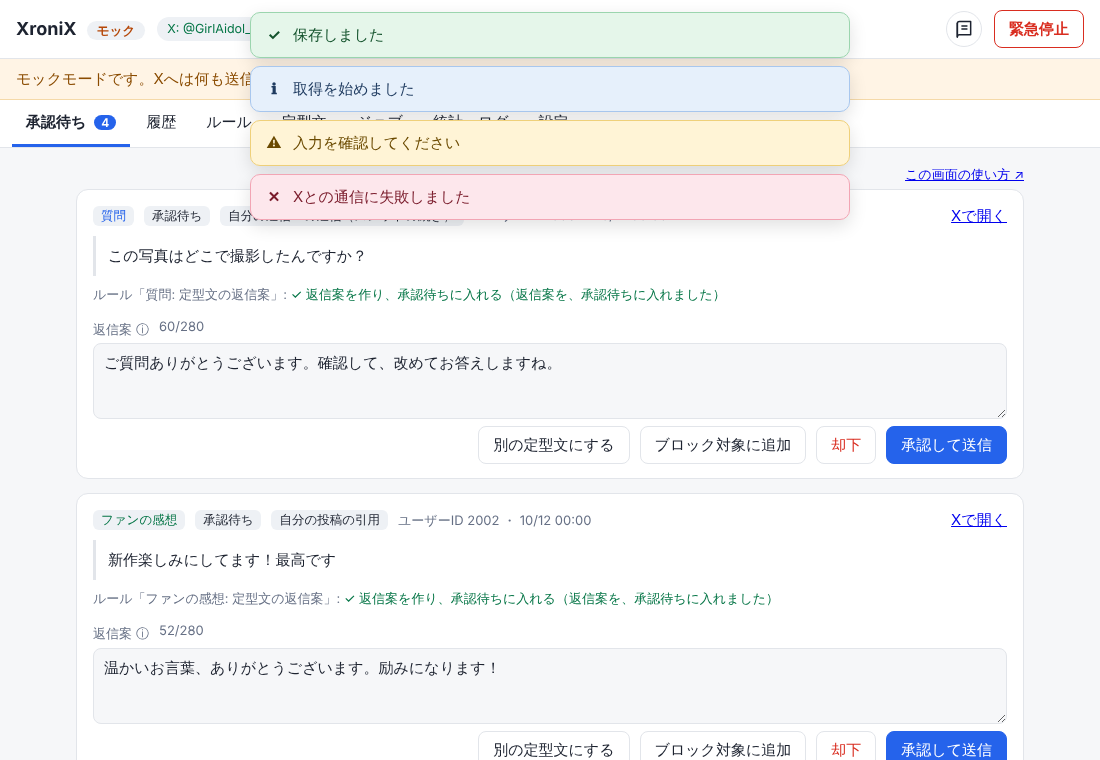
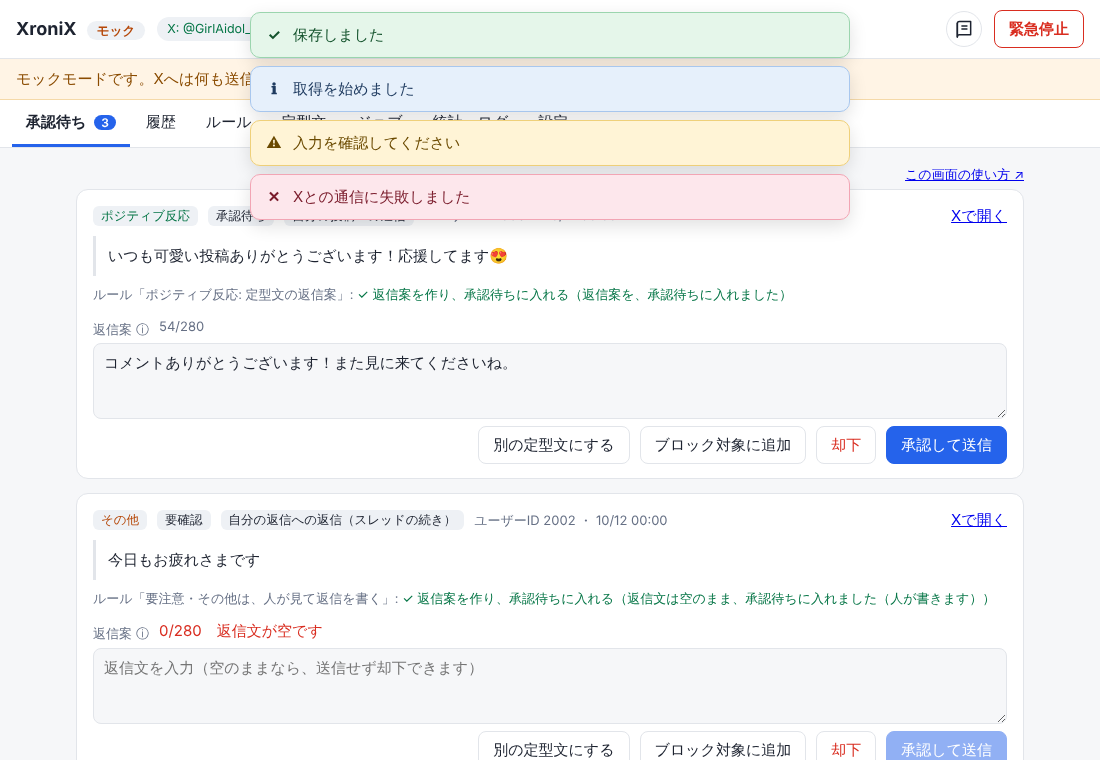
分類「ファンの感想」を「ポジティブ反応」に改名 (#8)
- 画面、ルールの既定名、AIのプロンプト、マニュアル、docsの表記を変更（内部キー fan は据え置き）
- マニュアルに、フォロワーとは無関係であることと、用語の定義を追記し、画面写真を撮り直し

Claude-Session: https://claude.ai/code/session_01EWXvrpRutDAh6miq8xhc1r

diff --git a/web/manual.html b/web/manual.html
@@ -191,7 +191,7 @@ svg text{font-family:system-ui,"Hiragino Sans","Noto Sans JP",sans-serif;fill:#1
 <figure class="tall"><img src="manual-img/history.png" alt="履歴画面" loading="lazy"><figcaption>図9 履歴画面</figcaption></figure>
 
 <h2 id="rules">ルール</h2>
-<p>反応の種類ごとに、何をするかを決める画面です。たとえば「ファンの感想にはいいねを付ける」「いいねが100件を超えたらAIの追加コメント案を作る」などを設定できます。</p>
+<p>反応の種類ごとに、何をするかを決める画面です。たとえば「ポジティブ反応にはいいねを付ける」「いいねが100件を超えたらAIの追加コメント案を作る」などを設定できます。</p>
 <figure class="tall"><img src="manual-img/rules.png" alt="ルール画面" loading="lazy"><figcaption>図10 ルール画面</figcaption></figure>
 <h3>ルールの探し方</h3>
 <figure>
@@ -209,7 +209,7 @@ svg text{font-family:system-ui,"Hiragino Sans","Noto Sans JP",sans-serif;fill:#1
 <tr><th>項目</th><th>説明</th></tr>
 <tr><td>対象</td><td>「反応」（返信・引用・メンション）か、「自投稿の数値」（いいね数など）。</td></tr>
 <tr><td>反応の種類</td><td>自分の投稿への返信、自分の返信への返信（スレッドの続き）、自分の投稿の引用、その他のメンション。</td></tr>
-<tr><td>分類</td><td>ファンの感想、質問、スパム、要注意、その他。選ばなければ、すべてが対象です。</td></tr>
+<tr><td>分類</td><td>ポジティブ反応、質問、スパム、要注意、その他。選ばなければ、すべてが対象です。</td></tr>
 <tr><td>アクション</td><td>上から順に実行されます。複数を並べられます。</td></tr>
 </table>
 <h3>アクションの種類</h3>
@@ -231,8 +231,8 @@ svg text{font-family:system-ui,"Hiragino Sans","Noto Sans JP",sans-serif;fill:#1
 <h3>設定例</h3>
 <table>
 <tr><th>やりたいこと</th><th>設定</th></tr>
-<tr><td>感想には、まず定型文で返す</td><td>分類「ファンの感想」、アクション「返信案を作る（定型文）」</td></tr>
-<tr><td>感想にいいねだけ付ける</td><td>分類「ファンの感想」、アクション「いいねを付ける」</td></tr>
+<tr><td>ポジティブ反応には、まず定型文で返す</td><td>分類「ポジティブ反応」、アクション「返信案を作る（定型文）」</td></tr>
+<tr><td>ポジティブ反応にいいねだけ付ける</td><td>分類「ポジティブ反応」、アクション「いいねを付ける」</td></tr>
 <tr><td>スパムは放置する</td><td>分類「スパム」、アクション「何もしない」</td></tr>
 <tr><td>人気の投稿にお礼を出す</td><td>対象「自投稿の数値」、いいね数が基準以上、アクション「AIで返信案」</td></tr>
 </table>
@@ -316,7 +316,8 @@ svg text{font-family:system-ui,"Hiragino Sans","Noto Sans JP",sans-serif;fill:#1
 <tr><td>メンション</td><td>@GirlAidol を含む投稿です。</td></tr>
 <tr><td>引用</td><td>自分の投稿を引用した投稿です。</td></tr>
 <tr><td>スレッド</td><td>返信が連なった一連の会話です。</td></tr>
-<tr><td>分類</td><td>ファンの感想、質問、スパム、要注意、その他。</td></tr>
+<tr><td>分類</td><td>ポジティブ反応、質問、スパム、要注意、その他。本文から自動で付くラベルで、相手がフォロワーかどうかは見ていません。</td></tr>
+<tr><td>ポジティブ反応</td><td>好意的・応援・お礼などの文面の反応です（例: 応援、癒し、尊い、可愛い、😍）。フォロワーかどうかとは無関係です。</td></tr>
 <tr><td>ルール</td><td>反応の種類と分類に応じた、処理の決まりです。</td></tr>
 <tr><td>アクション</td><td>ルールが行う1つ1つの処理です。</td></tr>
 <tr><td>プロンプト</td><td>AIへの指示文です。</td></tr>

diff --git a/web/app.js b/web/app.js
@@ -365,7 +365,7 @@ async function renderSettings() {
 // ---------- ルール（反応ごとのアクション） ----------
 const SOURCE_LABEL = { template: "定型文から選ぶ", ai: "AIで作る（指示を書く）", manual: "空欄にする（自分で書く）" };
 const CONTEXT_LABEL = { single: "この投稿だけを渡す", thread: "スレッドの流れも渡す（遡った件数ぶん、読み取り料金がかかる）" };
-const TPL_LABEL = { auto: "分類に合わせる（ファン／質問）", fan: "ファンの感想", question: "質問" };
+const TPL_LABEL = { auto: "分類に合わせる（ポジティブ反応／質問）", fan: "ポジティブ反応", question: "質問" };
 const ACTION_TIP = {
   ignore: "何もせず、履歴に記録だけ残します。スパムなどに使います。",
   notify: "Telegramに、反応の種類だけを通知します（本文は送りません）。通知の設定が必要です。",
@@ -396,7 +396,7 @@ function ruleCard(rule, meta, reload) {
     if (a.type === "queue_reply" || a.type === "send_reply") {
       const sources = meta.sources[a.type];
       row.append(h("div", { class: "row" }, h("div", { class: "grow" }, lbl("返信文の作り方"), sel(sources.map((x) => [x, SOURCE_LABEL[x]]), a.source, (v) => { a.source = v; draw(); }))));
-      if (a.source === "template") row.append(lbl("使う定型文の分類", "「分類に合わせる」は、ファン→ファンの感想、質問→質問、それ以外→ファンの感想の定型文を使います。"), sel(Object.entries(TPL_LABEL), a.template_category, (v) => (a.template_category = v)));
+      if (a.source === "template") row.append(lbl("使う定型文の分類", "「分類に合わせる」は、ポジティブ反応→ポジティブ反応、質問→質問、それ以外→ポジティブ反応の定型文を使います。"), sel(Object.entries(TPL_LABEL), a.template_category, (v) => (a.template_category = v)));
       if (a.source === "ai") {
         const ta = h("textarea", { oninput: (e) => (a.prompt = e.target.value) }); ta.value = a.prompt;
         row.append(lbl("AIへの指示（プロンプト）", "返信文を作るときの、役割や口調の指示です。出力の決まり（短く、リンクなし、日本語）は、自動で付きます。"), ta,

diff --git a/src/xronix/rules.py b/src/xronix/rules.py
@@ -104,12 +104,12 @@ def _seed() -> list[dict]:
         {"name": "スパムは記録のみ", "enabled": True, "events": reaction, "categories": [SPAM], "actions": [{"type": "ignore"}]},
         {"name": "要注意・その他は、人が見て返信を書く", "enabled": True, "events": reaction, "categories": [CAUTION, OTHER],
          "actions": [{"type": "queue_reply", "source": "manual"}]},
-        {"name": "ファンの感想: 定型文の返信案", "enabled": True, "events": reaction, "categories": [FAN],
+        {"name": "ポジティブ反応: 定型文の返信案", "enabled": True, "events": reaction, "categories": [FAN],
          "actions": [{"type": "queue_reply", "source": "template", "template_category": "auto"}]},
         {"name": "質問: 定型文の返信案", "enabled": True, "events": reaction, "categories": [QUESTION],
          "actions": [{"type": "queue_reply", "source": "template", "template_category": "auto"}]},
         # 以下は、使い方の見本（無効）
-        {"name": "【見本】ファンの感想にいいねを付ける", "enabled": False, "events": ["reply_to_post"], "categories": [FAN],
+        {"name": "【見本】ポジティブ反応にいいねを付ける", "enabled": False, "events": ["reply_to_post"], "categories": [FAN],
          "actions": [{"type": "like"}]},
         {"name": "【見本】いいねが100件を超えたら、AIの追加コメントを承認待ちに", "enabled": False, "events": ["metric_likes"], "threshold": 100,
          "actions": [{"type": "queue_reply", "source": "ai", "prompt": "あなたの投稿に、たくさんのいいねが付きました。お礼を、短く、自然な日本語で書いてください。",

diff --git a/tests/test_rules.py b/tests/test_rules.py
@@ -65,7 +65,7 @@ def test_valid_rules_are_normalized():
 def test_first_match_wins_and_filters(app):
     for r in app.rules.list():
         app.rules.delete(r["id"])
-    a = app.rules.create(rule(name="A: ファンの返信", events=["reply_to_post"], categories=["fan"], actions=[{"type": "like"}]))
+    a = app.rules.create(rule(name="A: ポジティブ反応の返信", events=["reply_to_post"], categories=["fan"], actions=[{"type": "like"}]))
     b = app.rules.create(rule(name="B: 返信すべて", events=["reply_to_post", "reply_to_reply"], actions=[{"type": "ignore"}]))
     off = app.rules.create(rule(name="C: 無効", enabled=False, events=["mention"], actions=[{"type": "ignore"}]))
     assert app.rules.match("reply_to_post", "fan")["id"] == a["id"]            # 上から見て、最初に合致したもの
@@ -92,7 +92,7 @@ def test_rules_api_crud_move_and_simulate(app):
     call(api, "POST", f"/api/rules/{ids[0]}/move", {"direction": "up"})         # 端は何も起きない
     assert [r["id"] for r in app.rules.list()] == ids
     sim = call(api, "POST", "/api/rules/simulate", {"event": "reply_to_post", "category": "fan"})[1]
-    assert sim["rule"]["name"].startswith("ファンの感想") and sim["rule"]["actions"] == ["返信案を作り、承認待ちに入れる"]
+    assert sim["rule"]["name"].startswith("ポジティブ反応") and sim["rule"]["actions"] == ["返信案を作り、承認待ちに入れる"]
     assert call(api, "POST", "/api/rules/simulate", {"event": "metric_likes"})[0] == 400
     assert call(api, "DELETE", f"/api/rules/{created['id']}")[0] == 200
     assert len(app.rules.list()) == 6

diff --git a/tests/test_api.py b/tests/test_api.py
@@ -61,7 +61,7 @@ def test_queue_reply_reject_redraft_via_api(app):
     app.x.add_mentions(["可愛い！", "好き！"])
     app.jobs.run()
     items = call(api, "GET", "/api/mentions", query={"view": "queue"})[1]["items"]
-    assert len(items) == 2 and items[0]["label"] == "ファンの感想"
+    assert len(items) == 2 and items[0]["label"] == "ポジティブ反応"
     a, b = items[0]["id"], items[1]["id"]
     new = call(api, "POST", f"/api/mentions/{a}/redraft")[1]
     assert new["draft_text"] != items[0]["draft_text"]
@@ -224,7 +224,7 @@ def test_ai_connection_test_endpoint(app, bedrock):
     assert st == 502 and "AccessDeniedException" in body["error"]       # 原因が画面に出る
     bedrock.push_text('{"category":"fan"}')
     st, body = call(api, "POST", "/api/ai/test")
-    assert st == 200 and body == {"provider": "bedrock", "model": "m1", "category": "fan", "label": "ファンの感想"}
+    assert st == 200 and body == {"provider": "bedrock", "model": "m1", "category": "fan", "label": "ポジティブ反応"}
     call(api, "PUT", "/api/settings/ai", {"provider": "rule"})
     assert call(api, "POST", "/api/ai/test")[0] == 502
 

diff --git a/src/xronix/ai.py b/src/xronix/ai.py
@@ -15,7 +15,7 @@ from .http import Http, NetworkError
 
 CLASSIFY_SYSTEM = (
     "あなたはSNSアカウント運用者の補助です。受け取った返信を次のいずれかに分類し、JSONだけを出力してください。"
-    "分類: fan（ファンの感想）, question（質問）, spam（スパム・勧誘）, caution（攻撃的・個人情報・トラブルの恐れ）, other（その他）。"
+    "分類: fan（ポジティブ反応。好意的・応援・お礼などの感想）, question（質問）, spam（スパム・勧誘）, caution（攻撃的・個人情報・トラブルの恐れ）, other（その他）。"
     '形式: {"category": "..."}'
 )
 GENERATE_RULES = (

diff --git a/src/xronix/classify.py b/src/xronix/classify.py
@@ -12,7 +12,7 @@ CAUTION = "caution"
 OTHER = "other"
 
 CATEGORIES = (FAN, QUESTION, SPAM, CAUTION, OTHER)
-LABELS = {FAN: "ファンの感想", QUESTION: "質問", SPAM: "スパム", CAUTION: "要注意", OTHER: "その他"}
+LABELS = {FAN: "ポジティブ反応", QUESTION: "質問", SPAM: "スパム", CAUTION: "要注意", OTHER: "その他"}
 
 _SPAM_WORDS = ("副業", "稼げ", "稼ぐ", "儲", "投資", "仮想通貨", "ビットコイン", "無料でプレゼント", "プレゼント企画",
                "フォロワー増", "相互フォロー", "拡散希望", "LINE追加", "公式LINE", "出会い", "パパ活", "ライブ配信", "副収入",

diff --git a/src/xronix/api.py b/src/xronix/api.py
@@ -334,7 +334,7 @@ class Api:
         out = {}
         if "category" in b or not partial:
             if b.get("category") not in ("fan", "question"):
-                raise ValidationError("カテゴリは「ファンの感想」「質問」から選んでください")
+                raise ValidationError("カテゴリは「ポジティブ反応」「質問」から選んでください")
             out["category"] = b["category"]
         if "text" in b or not partial:
             out["text"] = self.app.sender.check_text(str(b.get("text", "")))

diff --git a/docs/adr/0014-rules-and-actions.md b/docs/adr/0014-rules-and-actions.md
@@ -22,7 +22,7 @@
 
 - ルール = 反応の種類（複数可）＋ 分類（任意）＋ アクションの並び。上から順に見て、最初に合った1件だけを実行する。何も合わなければ、人が確認する「承認待ち」に入る。
 - 自投稿の数値のルールは、ルールごとに独立。各投稿で、基準を初めて超えたときに、1回だけ実行する（ルールIDと投稿IDで重複を防ぐ）。
-- 初期のルールは、従来の動き（スパムは記録のみ、要注意・その他は人が書く、ファン・質問は定型文の返信案）と同じ。見本として、無効の2件（ファンへのいいね、いいね100件超えのAIコメント）を入れる。
+- 初期のルールは、従来の動き（スパムは記録のみ、要注意・その他は人が書く、ポジティブ反応・質問は定型文の返信案）と同じ。見本として、無効の2件（ポジティブ反応へのいいね、いいね100件超えのAIコメント）を入れる。
 
 ### アクション
 

diff --git a/docs/arc42/05-building-block-view.md b/docs/arc42/05-building-block-view.md
@@ -39,7 +39,7 @@ flowchart LR
 | 要素 | 責務 |
 | --- | --- |
 | メンション取得 | `since_id` 以降のメンションを取得し、DynamoDBに保存。最新IDを更新 |
-| 分類 | スパム／質問／ファンの感想／要注意／その他に分類する（ルール、またはAI） |
+| 分類 | スパム／質問／ポジティブ反応／要注意／その他に分類する（ルール、またはAI） |
 | ルール・アクション | 反応の種類（返信・引用・メンション・自投稿の数値）と分類に合うルールを探し、いいね、AIの返信案、承認なしの送信、通知などを実行する（ADR-0014） |
 | トークン管理 | アクセストークンの取得と更新を1か所に集約。リース用の条件付き書き込みで排他 |
 | 承認画面 | 承認待ち一覧、編集、承認、却下、緊急停止。日本語、ⓘで説明 |

diff --git a/docs/arc42/08-crosscutting-concepts.md b/docs/arc42/08-crosscutting-concepts.md
@@ -31,7 +31,7 @@
 
 ## 分類
 
-- 区分: スパム、質問、ファンの感想、要注意。
+- 区分: スパム、質問、ポジティブ反応、要注意。
 - MVPはルールベース（キーワード、正規表現、メンションの形）。要注意は保守的に広く拾い、人が見る。
 
 ## 承認画面のUI
